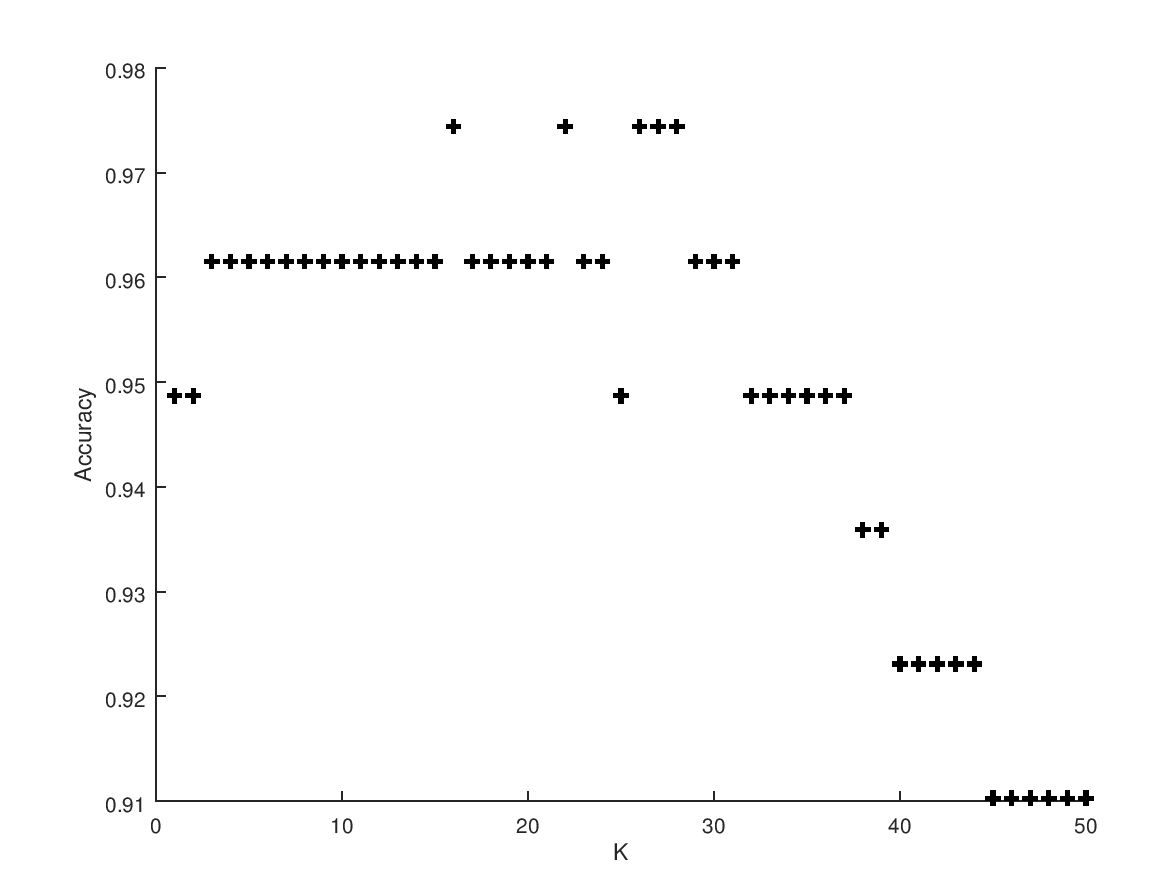
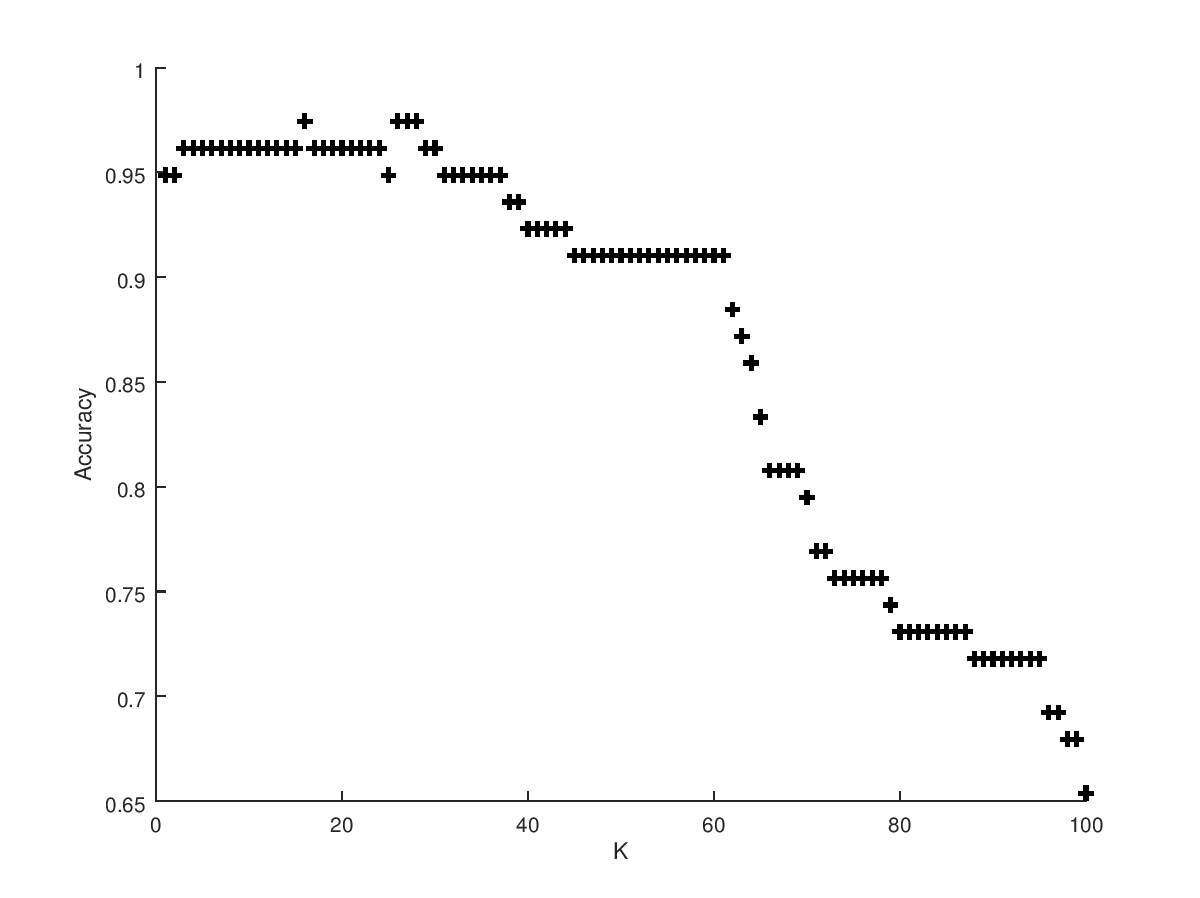
Commit Dec 9th 2017, 4:54 PM

diff --git a/project/KNN/run.m b/project/KNN/run.m
@@ -7,7 +7,7 @@ clear ; close all; clc
   data = load('dermatology.txt');
     
   #normalize the data;
-  normalized_data = data(: , 1 : 34);
+  normalized_data = data(1 : 280, 1 : 34);
   
   min_data    = min(normalized_data); 
   max_data    = max(normalized_data);
@@ -17,18 +17,21 @@ clear ; close all; clc
  
  
   # Rescaling
-  # normalized_data = (normalized_data .- min_data) ./ range_data;
+  # normalized_train_data = (normalized_data .- min_data) ./ range_data;
+  # normalized_test_data = (data(281:358, 1 : 34) .- min_data) ./ range_data;
  
   # Mean Normalization
-  # normalized_data = (normalized_data .- mean_data) ./ range_data;
+  # normalized_train_data = (normalized_data .- mean_data) ./ range_data;
+  # normalized_test_data = (data(281:358, 1 : 34) .- mean_data) ./ range_data;
 
   # Standardization
-    normalized_data = (normalized_data .- mean_data) ./ sd_data;
+  normalized_train_data = (normalized_data .- mean_data) ./ sd_data;
+  normalized_test_data = (data(281:358, 1 : 34) .- mean_data) ./ sd_data;
 
-  X = normalized_data(1:280 , :);
+  X = normalized_train_data(: , :);
   y = data(1:280 , 35);
   
-  test_data_without_output = normalized_data(281:358, :);
+  test_data_without_output = normalized_test_data(: , :);
   test_data_output_only = data(281:358 , 35);
   	
 	# generate predictions
@@ -37,7 +40,7 @@ clear ; close all; clc
   
   num_correct_predictions = 0;
   min_k = 1;
-  num_k = 50;
+  num_k = 100;
   accuracy_list = zeros(num_k - min_k, 1);
   
   for k = min_k : num_k

diff --git a/project/Logistic Regression/run.m b/project/Logistic Regression/run.m
@@ -27,16 +27,16 @@
  
  
   # Rescaling
-  # normalized_train_data = (normalized_data .- min_data) ./ range_data;
-  # normalized_test_data = (data(281:358, 1: 34) .-  min_data) ./ range_data;
+  normalized_train_data = (normalized_data .- min_data) ./ range_data;
+  normalized_test_data = (data(281:358, 1: 34) .-  min_data) ./ range_data;
  
   # Mean Normalization
   # normalized_train_data = (normalized_data .- mean_data) ./ range_data;
   # normalized_test_data = (data(281:358, 1: 34) .-  mean_data) ./ range_data;
 
   # Standardization
-  normalized_train_data = (normalized_data .- mean_data) ./ sd_data;
-  normalized_test_data = (data(281:358, 1: 34) .-  mean_data) ./ sd_data;
+  # normalized_train_data = (normalized_data .- mean_data) ./ sd_data;
+  # normalized_test_data = (data(281:358, 1: 34) .-  mean_data) ./ sd_data;
 
   train_inputs = normalized_train_data(: , :);
   train_output = data(1 : 280 , 35);
